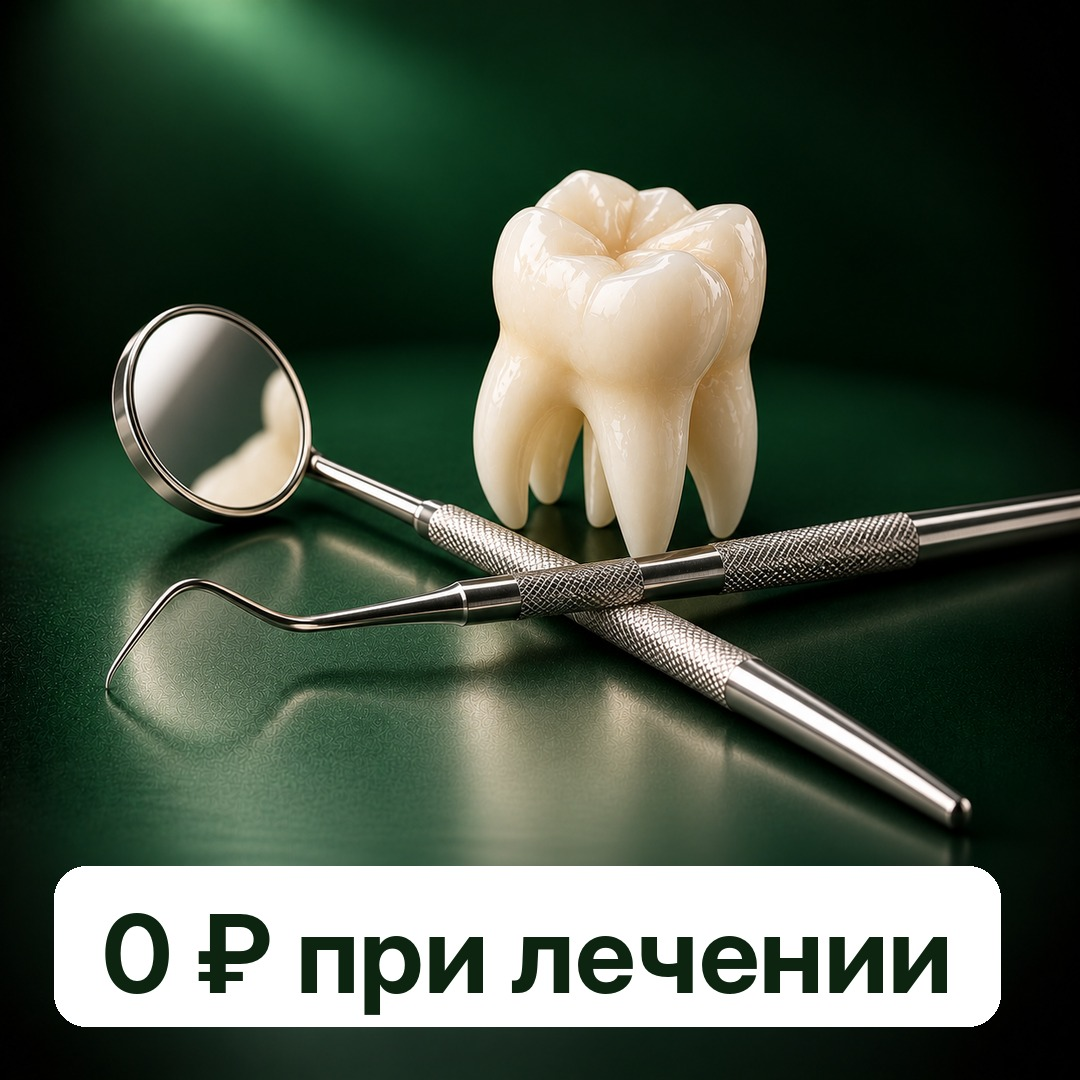
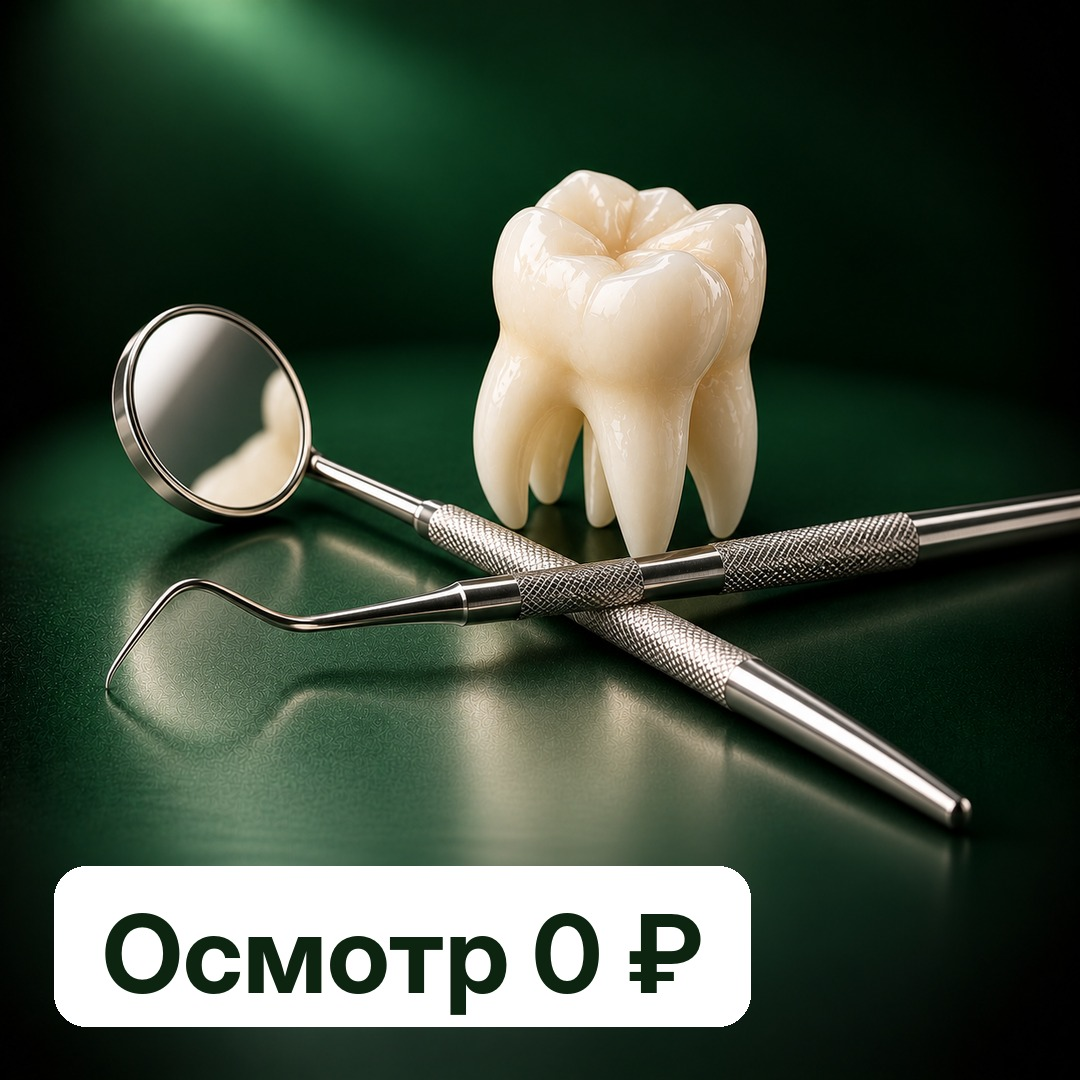
Витрина Карт: плашка плитки консультации «Осмотр 0 ₽»
Вместо «0 ₽ при лечении»: консультация бесплатная без условий.

Claude-Session: https://claude.ai/code/session_015kWcTRqcd5tG6Y7ru2x5Uu

Changed region(s): [[0.0917, 0.7944, 0.9472, 0.9778]]

diff --git a/ads/yandex-maps/plates_v3.py b/ads/yandex-maps/plates_v3.py
@@ -23,7 +23,7 @@ HOOKS = {
     "11-detskaya": "Без боли и слёз",
     "12-gigiena": "−22% по средам",
     "13-otbelivanie": "Белее за 1 визит",
-    "14-konsultaciya": "0 ₽ при лечении",
+    "14-konsultaciya": "Осмотр 0 ₽",
 }
 SIDE = 1080
 SIZE = 0.10          # кегль от стороны квадрата, у всех одинаковый
